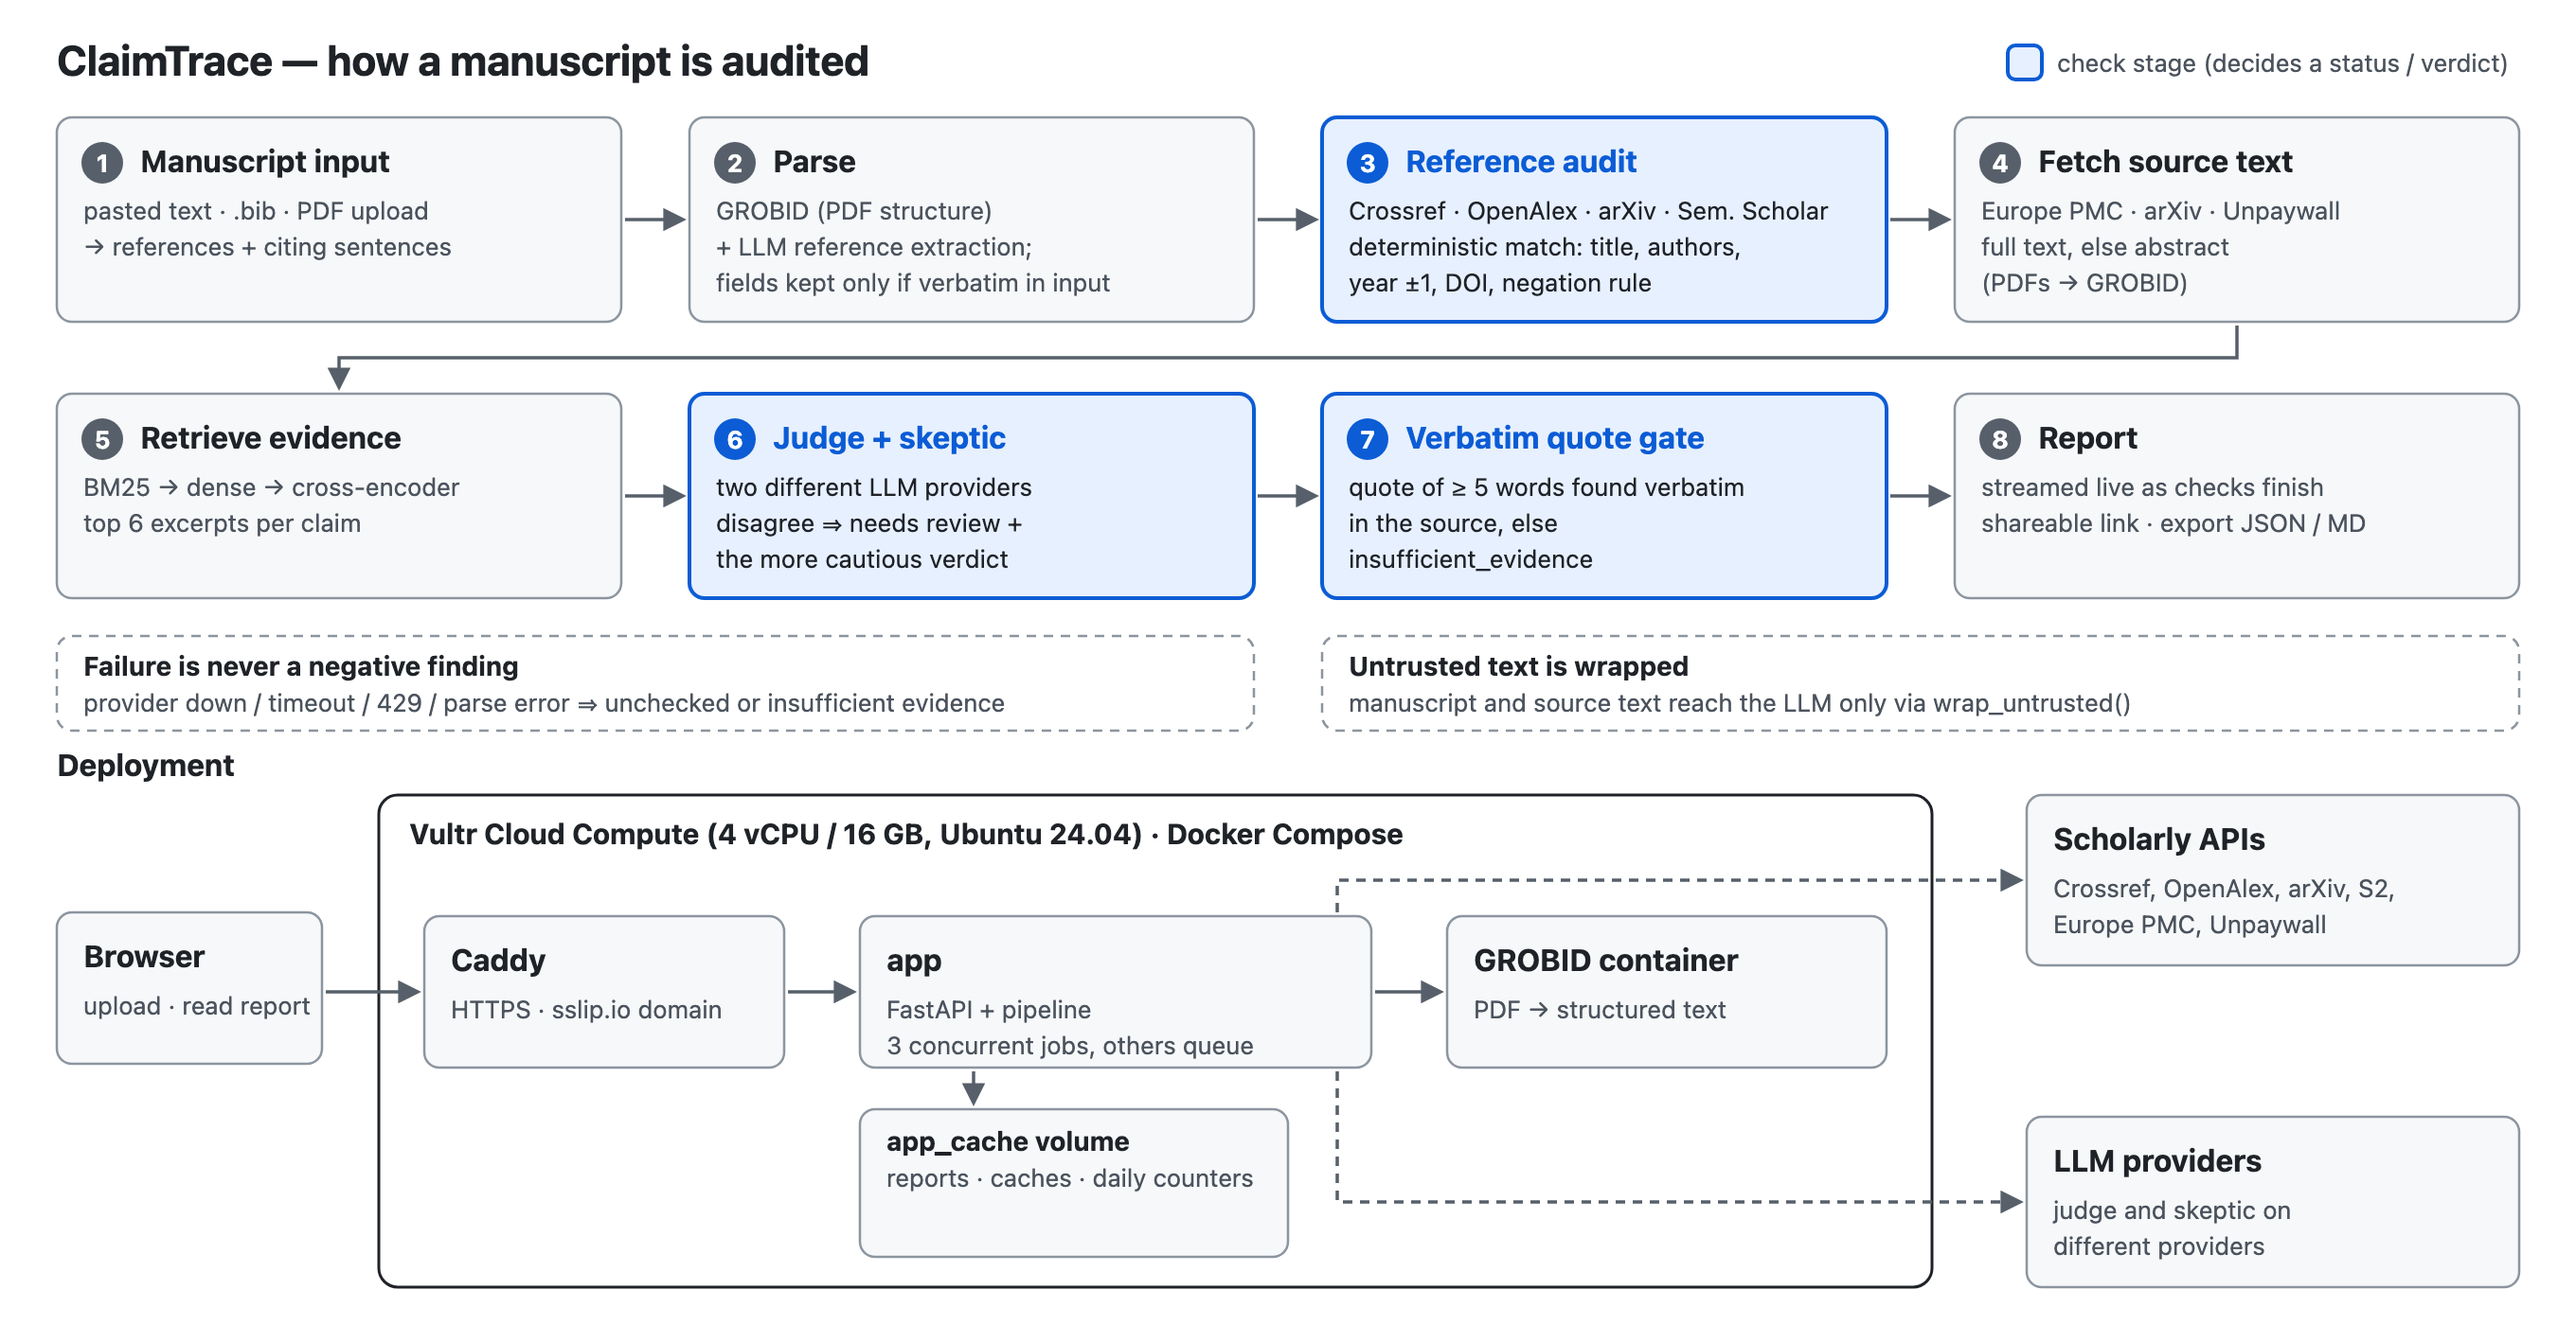
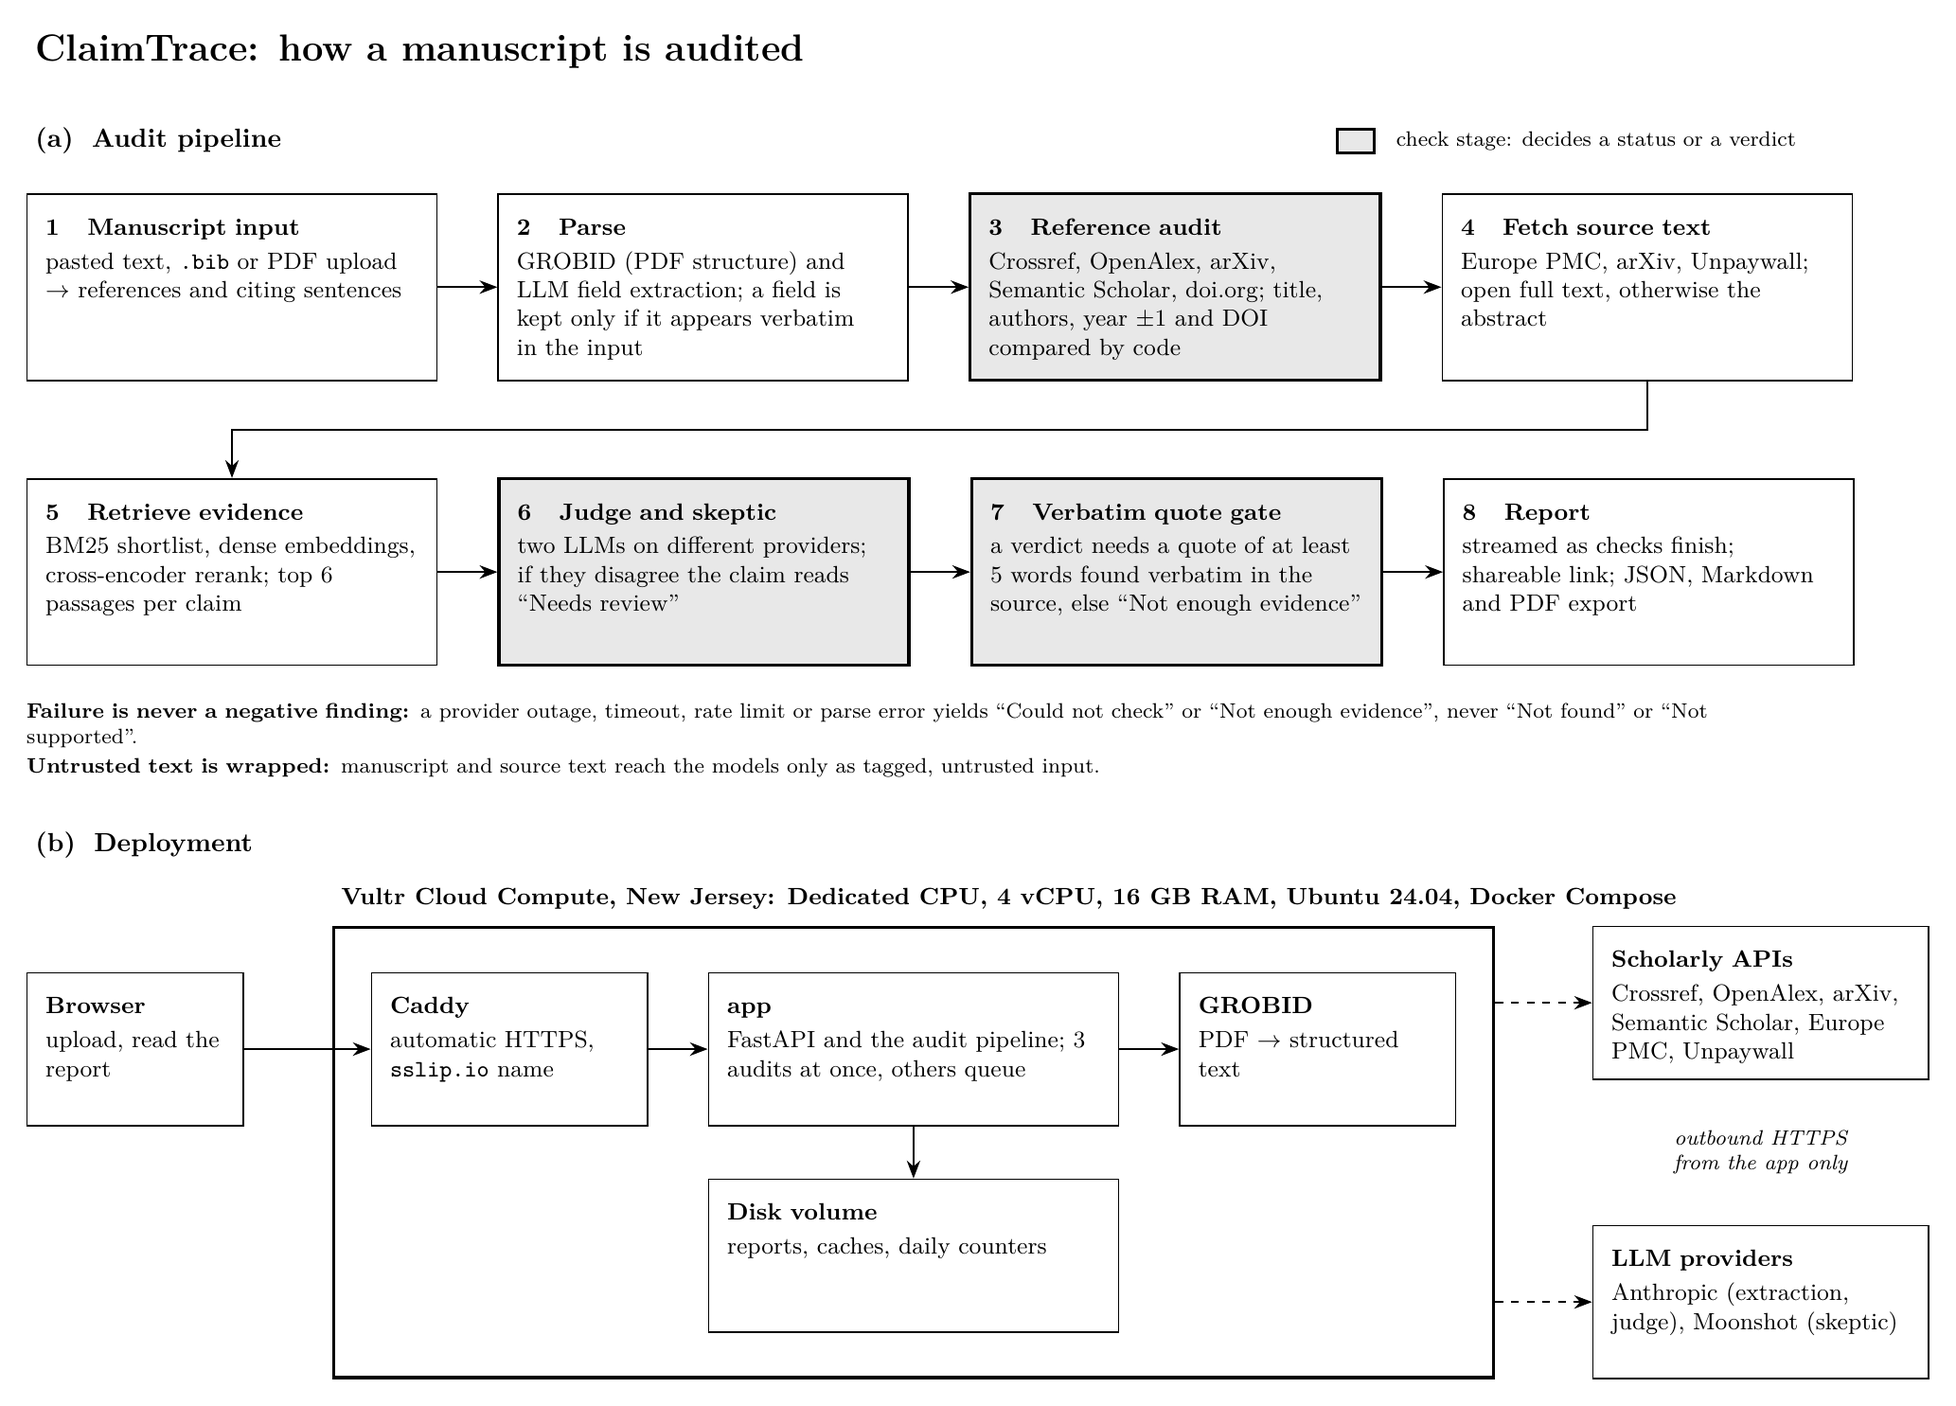
docs: architecture diagram = the LaTeX version submitted with the form (replaces the outdated SVG/PNG)

diff --git a/docs/ARCHITECTURE.md b/docs/ARCHITECTURE.md
@@ -1,6 +1,6 @@
 # Architecture
 
-![Architecture](architecture.svg)
+![Architecture](architecture.png)
 
 ```
             text / .bib / .pdf
